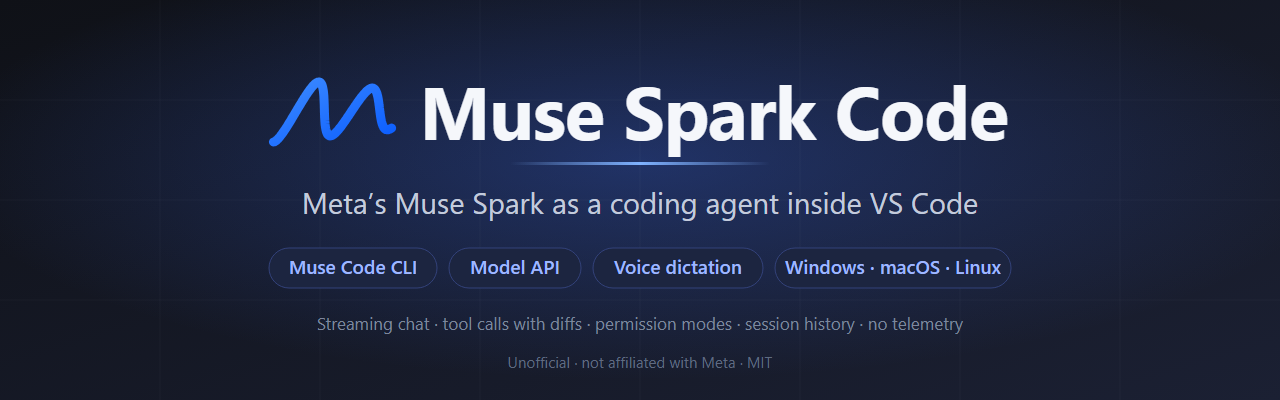
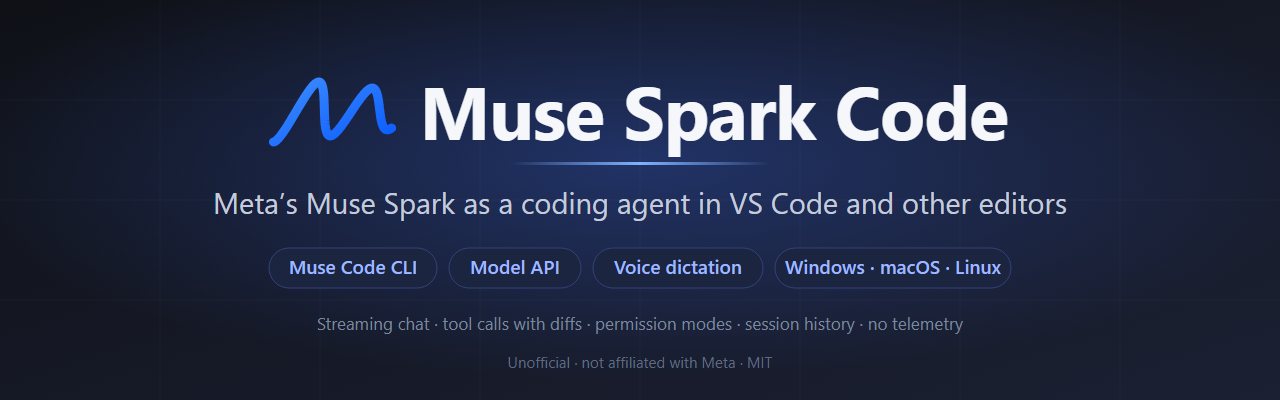
README: install in the most used editors; art says VS Code and other editors
The README's Other editors section gains an install guide: VS Code and
Cursor by ID or .vsix; Windsurf (Devin Desktop), VSCodium, Kiro and
Positron from Open VSX or Install from VSIX; JetBrains IDEs, Zed, Neovim,
Emacs and JupyterLab through the ACP agent, with its one-line npm install
from the release, Zed's tested settings and JetBrains' documented
~/.jetbrains/acp.json form (marked not yet tested here). The stale "Open
VSX once a release is published" line is gone.

The banner and social preview said "a coding agent inside VS Code"; they
now say "in VS Code and other editors", re-rendered on Windows so the
fonts match the originals. CHANGELOG: M74's Handoff entry moves from
Changed to Added, where a new feature belongs.

Changed region(s): [[0.1562, 0.48, 0.8438, 0.54]]

diff --git a/README.md b/README.md
@@ -1,5 +1,5 @@
 <p align="center">
-  <img src="media/readme/banner.png" alt="Muse Spark Code: Meta's Muse Spark as a coding agent inside VS Code" width="100%">
+  <img src="media/readme/banner.png" alt="Muse Spark Code: Meta's Muse Spark as a coding agent in VS Code and other editors" width="100%">
 </p>
 
 <p align="center">
@@ -297,8 +297,63 @@ agent for editors that speak the Agent Client Protocol (Zed, JetBrains IDEs,
 Neovim, Emacs and others), attached to each GitHub Release.
 [docs/acp.md](docs/acp.md) covers installing it, where it keeps a Model API
 key (the operating system's credential store), and the editor's settings.
-VS Code forks built on VS Code 1.99 or later can install the extension
-from a `.vsix`, and from Open VSX once a release is published there.
+VS Code forks built on VS Code 1.99 or later install the extension itself,
+from Open VSX or a `.vsix`.
+
+### Install in your editor
+
+| Editor                                                   | How                                                                                                                                                                                                                                                |
+| -------------------------------------------------------- | -------------------------------------------------------------------------------------------------------------------------------------------------------------------------------------------------------------------------------------------------- |
+| **VS Code**                                              | Search **Muse Spark Code** in the Extensions view, or run `code --install-extension RandyNorthrup.muse-spark-code`                                                                                                                                 |
+| **Cursor**                                               | Search **Muse Spark Code** in the Extensions view (Open VSX), or download the `.vsix` from the [latest release](https://github.com/RandyNorthrup/muse-spark-code/releases/latest) and run `cursor --install-extension muse-spark-code-0.10.1.vsix` |
+| **Windsurf (Devin Desktop), VSCodium, Kiro, Positron**   | Search **Muse Spark Code** in the Extensions view (Open VSX); in VSCodium also `codium --install-extension RandyNorthrup.muse-spark-code`. Any of them: **Extensions: Install from VSIX…** with the release's `.vsix`                              |
+| **JetBrains IDEs** (IntelliJ IDEA, PyCharm, WebStorm, …) | Install the ACP agent (below), then add it to AI Assistant (below). Not yet tested here                                                                                                                                                            |
+| **Zed**                                                  | Install the ACP agent (below), then add it to Zed's settings (below)                                                                                                                                                                               |
+| **Neovim, Emacs, JupyterLab**                            | Install the ACP agent (below), then follow [docs/acp.md](docs/acp.md#configure-the-editor) (CodeCompanion, agent-shell, Jupyter AI)                                                                                                                |
+
+**The ACP agent** needs Node.js 22 or later. Install it from the release:
+
+```bash
+npm install -g https://github.com/RandyNorthrup/muse-spark-code/releases/download/v0.10.1/muse-spark-code-acp-0.10.1.tgz
+muse-spark-code-acp --version
+```
+
+**Zed** (tested with Zed 1.20.2): add this to `settings.json`, then pick
+Muse Spark under External Agents in the Agent Panel's new-thread menu.
+
+```json
+{
+  "agent_servers": {
+    "Muse Spark": {
+      "type": "custom",
+      "command": "muse-spark-code-acp",
+      "args": [],
+      "env": {}
+    }
+  }
+}
+```
+
+**JetBrains IDEs**: in the AI Chat tool window choose **Add Custom Agent**,
+which opens `~/.jetbrains/acp.json`, and add the agent under
+`agent_servers` ([JetBrains' ACP guide](https://www.jetbrains.com/help/ai-assistant/acp.html)).
+This setup follows JetBrains' documentation and has not been tested here yet.
+
+```json
+{
+  "default_mcp_settings": {},
+  "agent_servers": {
+    "Muse Spark": {
+      "command": "muse-spark-code-acp",
+      "args": []
+    }
+  }
+}
+```
+
+Add `"--backend", "modelApi"` to `args` in either editor to use the Model
+API backend instead of Muse Code.
+
 [docs/ide-compatibility/hosts.md](docs/ide-compatibility/hosts.md) records
 which editors have been tried: so far VSCodium, code-server, Eclipse
 Theia, Cursor, Devin Desktop (formerly Windsurf), Kiro and Positron with

diff --git a/CHANGELOG.md b/CHANGELOG.md
@@ -68,17 +68,6 @@ happened, not what was planned; superseded entries are kept.
     whether packing engaged on each long-output task, and a run that holds
     the floors without packing is recorded as failed in both its JSON and
     its Markdown.
-
-### Changed
-
-- Upgrade `html-encoding-sniffer` to 7.0.0 while preserving HTML's byte-order-mark
-  and HTTP-header priority. XML declarations and BOM-less UTF-16 signatures stay
-  tentative; HTML meta declarations still win or trigger a later reparse. Valid
-  transport encodings without a runtime decoder remain explicit errors. Version
-  7 declares Node 22.13 or later, but the page worker bundles it: the shipped
-  bundle loads and converts pages in VS Code 1.99.0 (Node 20.18.3, the
-  extension's floor), now in the integration run's `minimum` label too
-  (`docs/certification/pr60-sniffer7.md`).
 - **Handoff to a new conversation** (M74, PLAN.md D49). `/handoff`,
   optionally with a goal after it, asks the model — as your own turn in the
   current conversation — for a distilled brief: the goal, the decisions,
@@ -108,6 +97,21 @@ happened, not what was planned; superseded entries are kept.
   `/handoff`. No new setting: nothing automatic runs. Automatic
   compaction, the hidden follow-up and memory flush stay unbuilt and off.
 
+### Changed
+
+- README: an install guide for the most used editors (VS Code, Cursor,
+  Windsurf/Devin Desktop, VSCodium, Kiro, Positron, JetBrains IDEs, Zed,
+  Neovim, Emacs), with the ACP agent's install command and Zed and JetBrains
+  settings; the banner and social preview now say the agent runs in VS Code
+  and other editors.
+- Upgrade `html-encoding-sniffer` to 7.0.0 while preserving HTML's byte-order-mark
+  and HTTP-header priority. XML declarations and BOM-less UTF-16 signatures stay
+  tentative; HTML meta declarations still win or trigger a later reparse. Valid
+  transport encodings without a runtime decoder remain explicit errors. Version
+  7 declares Node 22.13 or later, but the page worker bundles it: the shipped
+  bundle loads and converts pages in VS Code 1.99.0 (Node 20.18.3, the
+  extension's floor), now in the integration run's `minimum` label too
+  (`docs/certification/pr60-sniffer7.md`).
 ### Fixed
 
 - Web fetch decodes a windows-1252 page by the Encoding standard's table on
